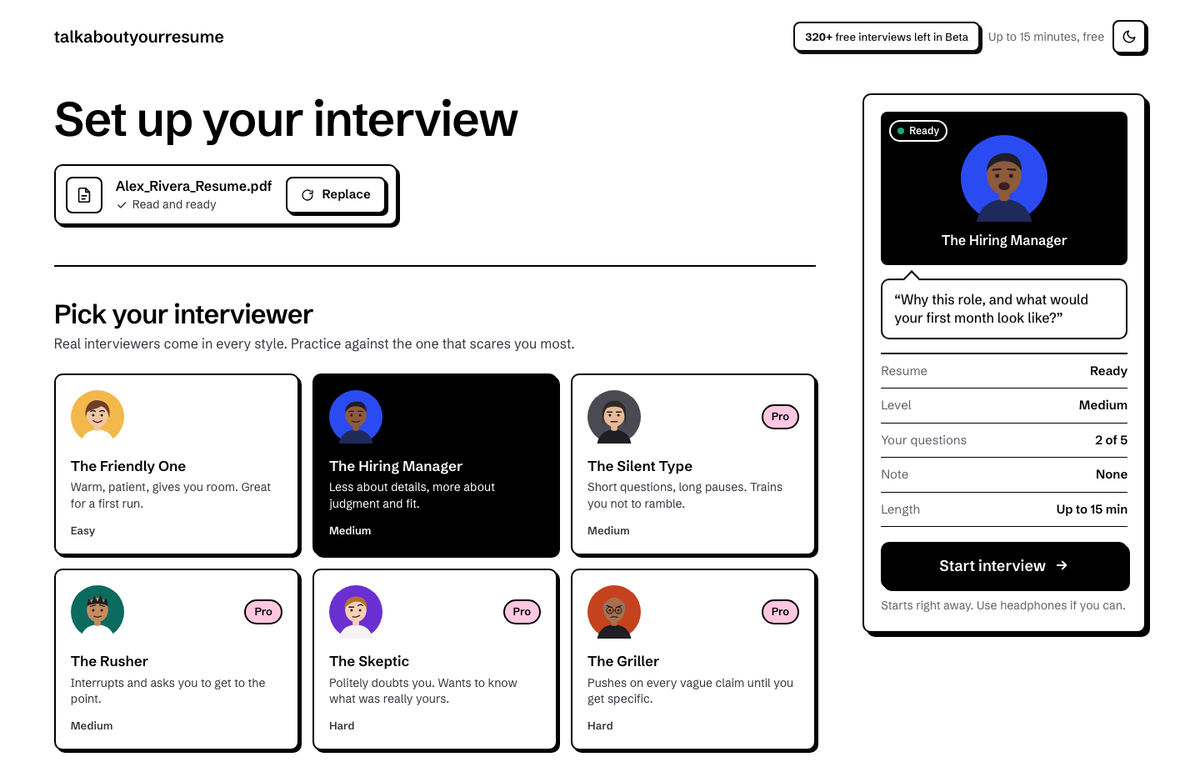
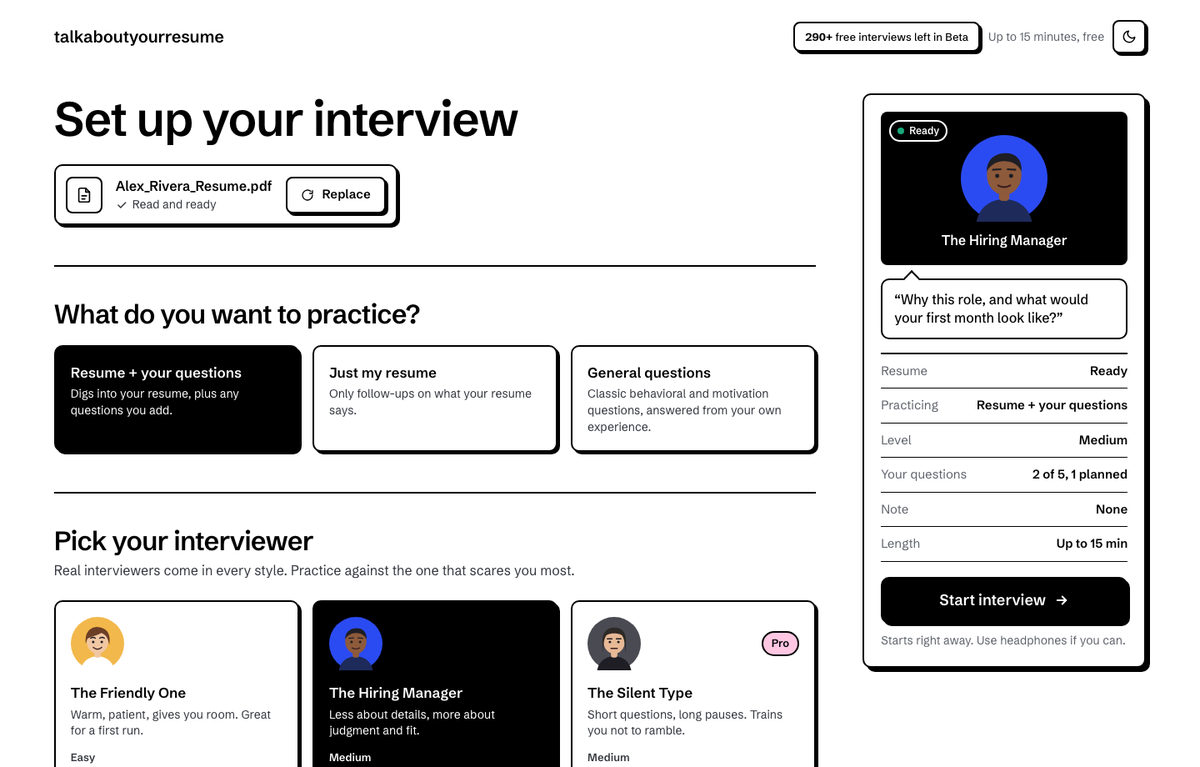
README: modes, planned answers, stats for nerds, turn-taking, eval results
- How it works and Features cover the three interview modes, planned
  answers, Stats for nerds, Flux turn-taking and the app-driven close.
- New "Measuring the interviewer" section: before/after eval numbers
  (closes 15% -> 100%, multi-question turns 24.5% -> 0%, praise 5.85 ->
  0.87 per interview, vague follow-ups 61.9% -> 74.3%), the pause test,
  and the Deepgram behaviors the evals found.
- Data table, tech stack (Flux), commands (eval:pauses), project
  structure, known limitations and roadmap updated.
- Setup screenshot retaken with the mode picker and a planned answer.

diff --git a/README.md b/README.md
@@ -9,13 +9,13 @@
 ## How it works
 
 1. **Upload** a PDF or DOCX resume. Claude reads it into 4–7 interview topics, each with what a sharp interviewer would probe.
-2. **Set up** the interview: pick one of six interviewers, from The Friendly One to The Griller, and optionally add questions you want to practice and anything you want to tighten up.
-3. **Talk.** A live voice interview of up to 15 minutes, in the browser. You can interrupt, ask for a moment, turn on captions or your camera.
-4. **Get feedback.** Every answer is judged Strong, Needs detail or Vague with one concrete tip. Retry your weakest answer in a 2-minute session, see your resume colored by how each line held up, and replay or download the recording.
+2. **Set up** the interview: choose what to practice (your resume plus your own questions, just your resume, or general behavioral questions), pick one of six interviewers from The Friendly One to The Griller, and optionally add practice questions with how you'd answer them.
+3. **Talk.** A live voice interview of up to 15 minutes, in the browser. Pause to think mid-sentence without being cut off, interrupt, ask for a moment, turn on captions or your camera.
+4. **Get feedback.** Every answer is judged Strong, Needs detail or Vague with one concrete tip. Compare what you said with what you planned, retry your weakest answer in a 2-minute session, see your resume colored by how each line held up, dig into Stats for nerds, and replay or download the recording.
 
 | Set up | Interview |
 |---|---|
-| ![Setup: interviewer picker with a live preview](docs/screenshots/setup.png) | ![Interview lobby: mic check, camera, Join](docs/screenshots/interview.png) |
+| ![Setup: what to practice, interviewer picker, live preview](docs/screenshots/setup.png) | ![Interview lobby: mic check, camera, Join](docs/screenshots/interview.png) |
 
 <details>
 <summary><b>Results page</b></summary>
@@ -26,12 +26,16 @@
 
 ## Features
 
-- **Follow-ups that dig in.** The interviewer prompt is a rulebook: ask for the baseline behind any number, how it was measured, what *you* did when you say "we", one concrete example when vague. Topics and openings are randomized so no two interviews match.
-- **Six interviewer personalities**, each with its own voice, speed and greeting (`lib/interviewers.ts`).
-- **Real-time voice** with barge-in: start talking and the interviewer stops. Wraps up on time with a natural goodbye.
+- **Follow-ups that dig in.** After every answer the interviewer checks for a concrete example, numbers with a starting point, what *you* did, and the result, and asks for exactly the missing piece; "I don't remember" gets one ask for a ballpark. Topics and openings are randomized so no two interviews match.
+- **Three interview modes:** resume + your own questions, just your resume, or general behavioral questions (failure, conflict, deadlines, initiative…) answered from your own experience.
+- **Planned answers:** write how you'd answer a practice question; afterwards see the points you said, the ones you left out, and a tighter version built only from your own facts, with `[brackets]` where a number is missing. The interviewer never sees your plan.
+- **Six interviewer personalities**, each with its own voice, speed, greeting and patience (`lib/interviewers.ts`).
+- **Natural turn-taking:** Deepgram Flux decides from what you're saying whether you're done, so a thinking pause mid-sentence doesn't hand the turn to the interviewer. Barge-in: start talking and the interviewer stops.
+- **A real ending:** when time is up, the app makes the interviewer ask for your questions, answer briefly and say goodbye, instead of being cut off mid-question.
 - **Feedback that's specific:** verdict and tip per answer, your best line quoted, the first sentence a weak answer should have had, and a retry of your weakest answer.
 - **Resume heatmap:** your resume text with every discussed claim colored by its verdict. Tap one for the question and tip.
 - **Filler words** ("you know", "basically", "like,") counted per answer and per minute.
+- **Stats for nerds:** measured speaking pace, talk time and share, answer lengths, "I" vs "we", hedges, numbers mentioned, and the interviewer's response time split into speech-to-text, model and voice.
 - **Optional accounts** (Google sign-in): each interview's score and feedback saved to a profile with a progress chart.
 - **Share card and calendar invite:** a 1080 × 1080 result image, and a Google Calendar or .ics invite for the next practice.
 - **Live cost:** what each interview costs in voice minutes and Claude tokens.
@@ -55,19 +59,43 @@ flowchart LR
 - **The server never sees your audio.** `/api/session` exchanges the Deepgram key for a token that expires in 60 seconds; the browser opens the voice WebSocket with it directly. The real key never leaves the server.
 - **Reliable JSON from Claude.** `askJson` in `lib/claude.ts` has Claude answer by calling a tool whose input schema is the exact shape needed, so routes get parsed, typed objects.
 - **Gapless, interruptible audio.** An AudioWorklet (`public/mic-processor.js`) turns the mic into 16 kHz PCM off the main thread; replies are scheduled back to back on the audio clock and all stop at once on barge-in.
-- **Untrusted input stays data.** Resumes and practice questions are wrapped in tags and marked as data in every prompt; every model output is validated and capped before use.
+- **The app drives the flow; the model words it.** Told to "wrap up", the model kept digging (0 of 4 closed in tests), so the app makes the interviewer say the closing line at the next pause (`InjectAgentMessage`) and adds closing rules (`UpdatePrompt`, which appends); a goodbye line is the fallback. One Settings builder (`lib/agentSettings.ts`) serves the app and the evals.
+- **Untrusted input stays data.** Resumes, practice questions and planned answers are wrapped in tags and marked as data in every prompt; every model output is validated and capped before use.
+
+## Measuring the interviewer
+
+`npm run eval` runs full interviews between the real interviewer, through Deepgram's Voice Agent with production settings, and Claude playing seven candidate types (strong, vague, all "we", rambler, evasive, confused, adversarial) across three fictional resumes; a judge model scores every transcript and cites the turn. Details in [evals/README.md](evals/README.md).
+
+| Check | Old prompt | Now |
+|---|---|---|
+| Closes properly (asks for their questions, says goodbye) | 15% | **100%**, without the fallback |
+| Turns with more than one question | 24.5% | **0%** |
+| Praise or verdicts mid-interview, per interview | 5.85 | **0.87** |
+| Follows up on vague answers* | 61.9% | **74.3%** |
+| Ignores injected instructions | 100% | 100% |
+
+\* Re-scored with the newer, repeatable judge (Sonnet 4.6 at temperature 0); the other rows use the earlier judge. Single runs vary by about ±10 points.
+
+`npm run eval:pauses` speaks a real answer with a thinking pause into a session and checks for interruptions:
+
+| Speech-to-text | 2.5 s thinking pause | Reply after you finish |
+|---|---|---|
+| Nova-3 (before) | cut in after ~1 s | ~1 s |
+| **Flux, threshold 0.9 (now)** | **waits, one turn** | ~1.7 s |
+
+The evals also found Deepgram behaviors worth knowing: `UpdatePrompt` appends rather than replaces; a single message over ~1,000 characters is dropped and the model gets an empty request; sessions with no incoming audio are closed (the app now streams silence while you're muted).
 
 ## Data and privacy
 
 | Data | Where it lives | Lifetime |
 |---|---|---|
-| Resume text, transcript, feedback | The browser tab (`sessionStorage`) | Until the tab closes |
+| Resume text, transcript, feedback, planned answers, voice measurements | The browser tab (`sessionStorage`) | Until the tab closes |
 | Interview audio | Browser memory | Until refresh |
 | Saved interviews (signed in): score, verdicts, tips, summary, best line | Neon Postgres | Until you delete them or your account |
 | Daily usage counts, recent upload types and sizes | Upstash Redis | 400 days / last 500 |
 | Waitlist emails | Upstash Redis | Until deleted |
 
-Resume text and transcripts go to Anthropic, and mic audio to Deepgram, only to run the session. No transcripts, resumes or audio are ever saved server-side. The plain-language version is at [/privacy](https://talkaboutyourresume.vercel.app/privacy).
+Resume text, transcripts and planned answers go to Anthropic, and mic audio to Deepgram, only to run the session. No transcripts, resumes or audio are ever saved server-side. The plain-language version is at [/privacy](https://talkaboutyourresume.vercel.app/privacy).
 
 ## Tech stack
 
@@ -75,7 +103,7 @@ Resume text and transcripts go to Anthropic, and mic audio to Deepgram, only to 
 |---|---|
 | App | Next.js 15 (App Router), React 19, TypeScript, plain CSS |
 | AI | Claude via the Anthropic SDK: Haiku reads resumes, Sonnet writes feedback |
-| Voice | Deepgram Voice Agent: Nova-3 speech-to-text, Claude Haiku as the interviewer, Aura-2 voices |
+| Voice | Deepgram Voice Agent: Flux speech-to-text with semantic end-of-turn, Claude Haiku as the interviewer, Aura-2 voices |
 | Resume parsing | `unpdf` (PDF.js) for PDF, `mammoth` for DOCX |
 | Accounts | Clerk (Google sign-in) |
 | Database | Neon Postgres for saved interviews; Upstash Redis for limits, counts and emails |
@@ -97,6 +125,7 @@ Only the two API keys are required. Everything else switches itself off when its
 npm run typecheck   # TypeScript
 npm run build       # production build
 npm run eval        # interviewer evals: simulated candidates + a judge model (see evals/README.md)
+npm run eval:pauses # turn-taking: does a thinking pause get cut in on? (Deepgram only)
 ```
 
 ## Environment variables
@@ -130,29 +159,32 @@ Every push to `main` deploys to production; every pull request gets a preview UR
 ```
 app/
   page.tsx                Home: pixel-room hero, example answers, pricing
-  setup/page.tsx          Resume card, interviewer picker, practice questions, live preview
+  setup/page.tsx          Resume card, interview mode, interviewer picker, practice questions + planned answers, live preview
   interview/page.tsx      Full-window call: lobby, mic check, camera, captions, wrap-up timers
-  feedback/page.tsx       Verdicts, retry, heatmap, fillers, share, cost, calendar, save
+  feedback/page.tsx       Verdicts, retry, planned vs said, heatmap, fillers, stats for nerds, share, cost, calendar, save
   profile/page.tsx        Saved interviews and progress (signed in)
   stats/page.tsx          Private usage funnel (STATS_KEY)
   privacy/page.tsx        Plain-language privacy
   api/resume              PDF/DOCX → text → Claude → topics, claim ids, usage
   api/session             Limits, Deepgram token, interviewer prompt and voice settings
-  api/feedback            Transcript → Claude → verdict per answer, best moment, weakest
+  api/feedback            Transcript (+ planned answers) → Claude → verdict per answer, best moment, planned vs said
   api/interviews          Save or delete the signed-in user's interviews
   api/clerk-webhook       Account created / deleted
   api/track, api/waitlist, api/deepgram-balance
 lib/
-  prompts.ts              Interviewer system prompt and follow-up rules   ← tune the interviewer here
-  interviewers.ts         The six personalities, voices, greetings        ← and here
+  prompts.ts              Interviewer prompt, modes, follow-up rules, closing lines   ← tune the interviewer here
+  interviewers.ts         The six personalities, voices, greetings, patience          ← and here
+  agentSettings.ts        Deepgram Settings (Flux listening, model, voice), shared by the app and the evals
   claude.ts               Anthropic client, askJson (structured output via a tool call)
-  voice/agent.ts          Browser side of the Deepgram WebSocket: mic, playback, barge-in, recording
+  voice/agent.ts          Browser side of the Deepgram WebSocket: mic, playback, barge-in, recording, the close, timings
   db.ts                   Neon: interviews table, save, list, delete
   limits.ts               Upstash: daily limits, usage counts, uploads, emails
   heatmap.ts, fillers.ts  Resume heatmap placement, filler-word patterns
+  nerdStats.ts            Stats for nerds: pace, talk share, I vs we, response times
   cost.ts, config.ts      Live cost ledger; BETA flag, limits and prices   ← update prices here
   store.ts                sessionStorage wrapper for the in-progress interview
-components/               UI pieces: PixelScene, AudioPlayer, ResumeHeatmap, ShareResult, ...
+components/               UI pieces: PixelScene, AudioPlayer, ResumeHeatmap, PlannedAnswers, StatsForNerds, ...
+evals/                    Interviewer evals (simulated candidates, judge, results) and the pause check
 public/mic-processor.js   AudioWorklet: mic → 16 kHz PCM
 middleware.ts             Clerk session (pass-through without keys)
 ```
@@ -166,6 +198,8 @@ Deepgram's Voice Agent is about **$0.075 a minute**, which includes the intervie
 - The 15-minute cap is enforced in the browser; a modified client could keep a voice session open. Cap spend in the Deepgram console.
 - Daily limits are per IP address, which a campus network shares.
 - "Um" and "uh" can't be counted: Deepgram's voice agent drops them.
+- Thinking pauses of 4 seconds or more can still be cut in on; the interviewer then says "take your time".
+- Deepgram drops a single typed message over ~1,000 characters; whether very long nonstop speech hits the same limit is unverified.
 - The interviewer has an eval suite (`npm run eval`), but there are no automated tests for the routes or feedback-quality evals yet.
 
 ## Roadmap
@@ -174,4 +208,6 @@ Deepgram's Voice Agent is about **$0.075 a minute**, which includes the intervie
 - Daily limits per account instead of per IP
 - Track the same resume topic across interviews ("checkout speed: Vague → Strong")
 - Questions tailored to a pasted job description
+- Per-question patience (`UpdateListen`) and resume keyterms for more accurate transcripts
+- A site-wide response-time card on `/stats`, from the per-interview measurements
 - Route tests, error tracking and an eval set for the feedback verdicts
